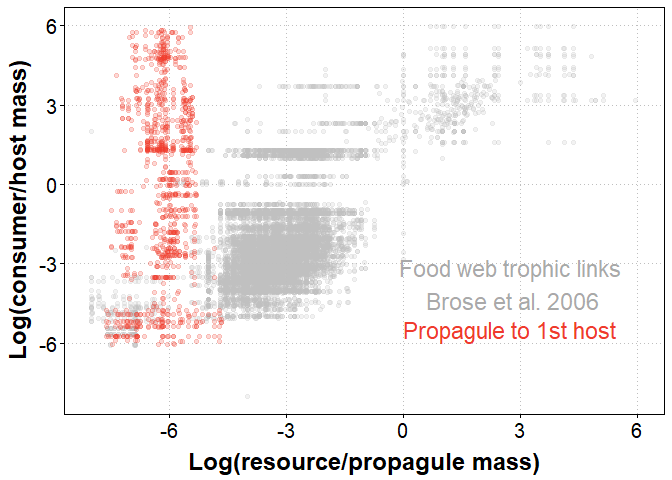
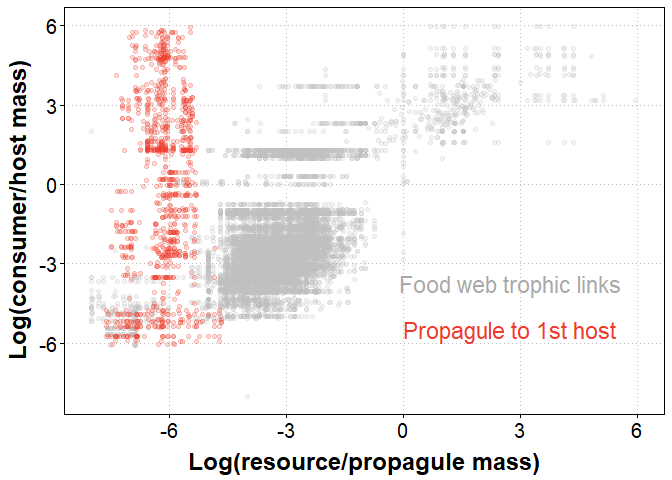
Removed Brose et al 2006 from figures, re-knit md

Changed region(s): [[0.5938, 0.5312, 0.9375, 0.6562]]

diff --git a/propagule_transmission.md b/propagule_transmission.md
@@ -199,7 +199,7 @@ ggplot(data = filter(plot.dat, trans.step=="food web"),
   geom_point(data = filter(plot.dat, trans.step=="propagule to 1st host"), 
              aes(x = log10(res.mass), y = log10(cons.mass)),
              color = reds, alpha = 0.2) +
-  annotate("text", x = 2.75, y = -3.75, label = "Food web trophic links\n Brose et al. 2006",
+  annotate("text", x = 2.75, y = -3.75, label = "Food web trophic links",
            size = 6, color = "darkgray") +
   annotate("text", x = 2.75, y = -5.5, label = "Propagule to 1st host", 
            size = 6, color = reds) +
@@ -223,7 +223,7 @@ outfig <- ggplot(data = filter(plot.dat, trans.step=="food web"),
              aes(x = log10(res.mass), y = log10(cons.mass), color = lcl.cat),
              alpha = 0.5) +
   scale_color_manual(values = reds) + guides(color=FALSE) +
-  annotate("text", x = 2.75, y = -2.75, label = "Food web trophic links\n Brose et al. 2006",
+  annotate("text", x = 2.75, y = -3.25, label = "Food web trophic links",
            size = 6, color = "darkgray") +
   annotate("text", x = 2.75, y = -4.5, label = "Propagule to 1st host (simple)", 
            size = 6, color = reds[2]) +
@@ -253,9 +253,9 @@ outfig <- ggplot(data = filter(plot.dat, trans.step=="food web"),
   geom_point(data = filter(plot.dat, trans.step=="propagule to 2nd host"), 
              aes(x = log10(res.mass), y = log10(cons.mass)),
              color = blues, alpha = 0.2) +
-  annotate("text", x = 2.75, y = -3.75, label = "Food web trophic links\n Brose et al. 2006",
+  annotate("text", x = 2.75, y = -3.25, label = "Food web trophic links",
            size = 6, color = "darkgray") +
-  annotate("text", x = 2.75, y = -5.5, label = "Propagule to 2nd host", 
+  annotate("text", x = 2.75, y = -4.5, label = "Propagule to 2nd host", 
            size = 6, color = blues) +
   scale_x_continuous(limits = c(-8, 6), breaks = seq(from = -6, to = 6, by = 3)) +
   scale_y_continuous(limits = c(-8, 6), breaks = seq(from = -6, to = 6, by = 3))
@@ -280,9 +280,9 @@ ggplot(data = filter(plot.dat, trans.step=="food web"),
   labs(x = "\nLog(resource/propagule mass)", y = "Log(consumer/host mass)\n") +
   geom_point(data = filter(plot.dat, trans.step=="1st host to 2nd host"), 
              color = purp, alpha = 0.2) +
-  annotate("text", x = 2.75, y = -3.75, label = "Food web trophic links\n Brose et al. 2006",
+  annotate("text", x = 2.75, y = -3.25, label = "Food web trophic links",
            size = 6, color = "darkgray") +
-  annotate("text", x = 2.75, y = -5.5, label = "1st host to 2nd host", 
+  annotate("text", x = 2.75, y = -4.5, label = "1st host to 2nd host", 
            size = 6, color = purp) +
   scale_x_continuous(limits = c(-8, 6), breaks = seq(from = -6, to = 6, by = 3)) +
   scale_y_continuous(limits = c(-8, 6), breaks = seq(from = -6, to = 6, by = 3))
